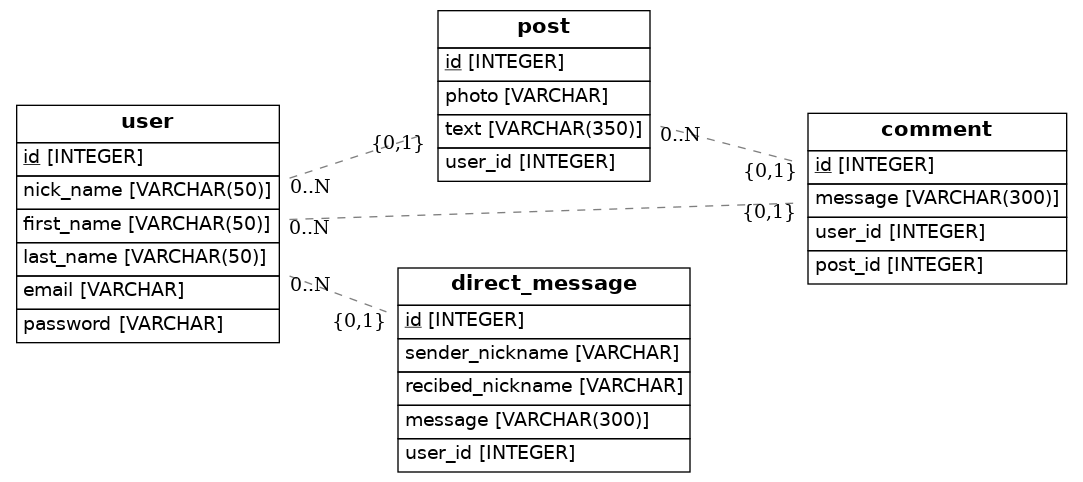
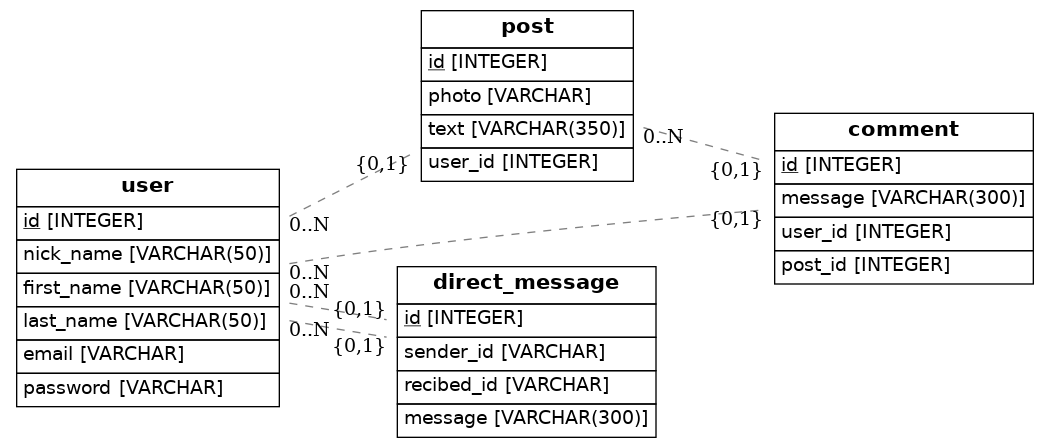
relaciones modificadas

diff --git a/src/models.py b/src/models.py
@@ -27,7 +27,7 @@ class Post(Base):
     photo = Column(String, nullable=False)
     text = Column(String(350))
     user_id = Column(Integer, ForeignKey('user.id')) #estas 2 últimas líneas son obligatorias para hacer las relaciones
-    user = relationship(User) #esto es realmente necesario?xq me había salido el diagrama sin esto...
+    user = relationship(User)
 
 class comment(Base):
     __tablename__ = 'comment'
@@ -41,10 +41,9 @@ class comment(Base):
 class direct_message(Base):
     __tablename__ = 'direct_message'
     id = Column(Integer, primary_key=True)
-    sender_nickname = Column(String)
-    recibed_nickname = Column(String)
+    sender_id = Column(String, ForeignKey('user.id'))
+    recibed_id = Column(String, ForeignKey('user.id'))
     message = Column(String(300))
-    user_id = Column(Integer, ForeignKey('user.id'))
     user = relationship(User)
 
 
